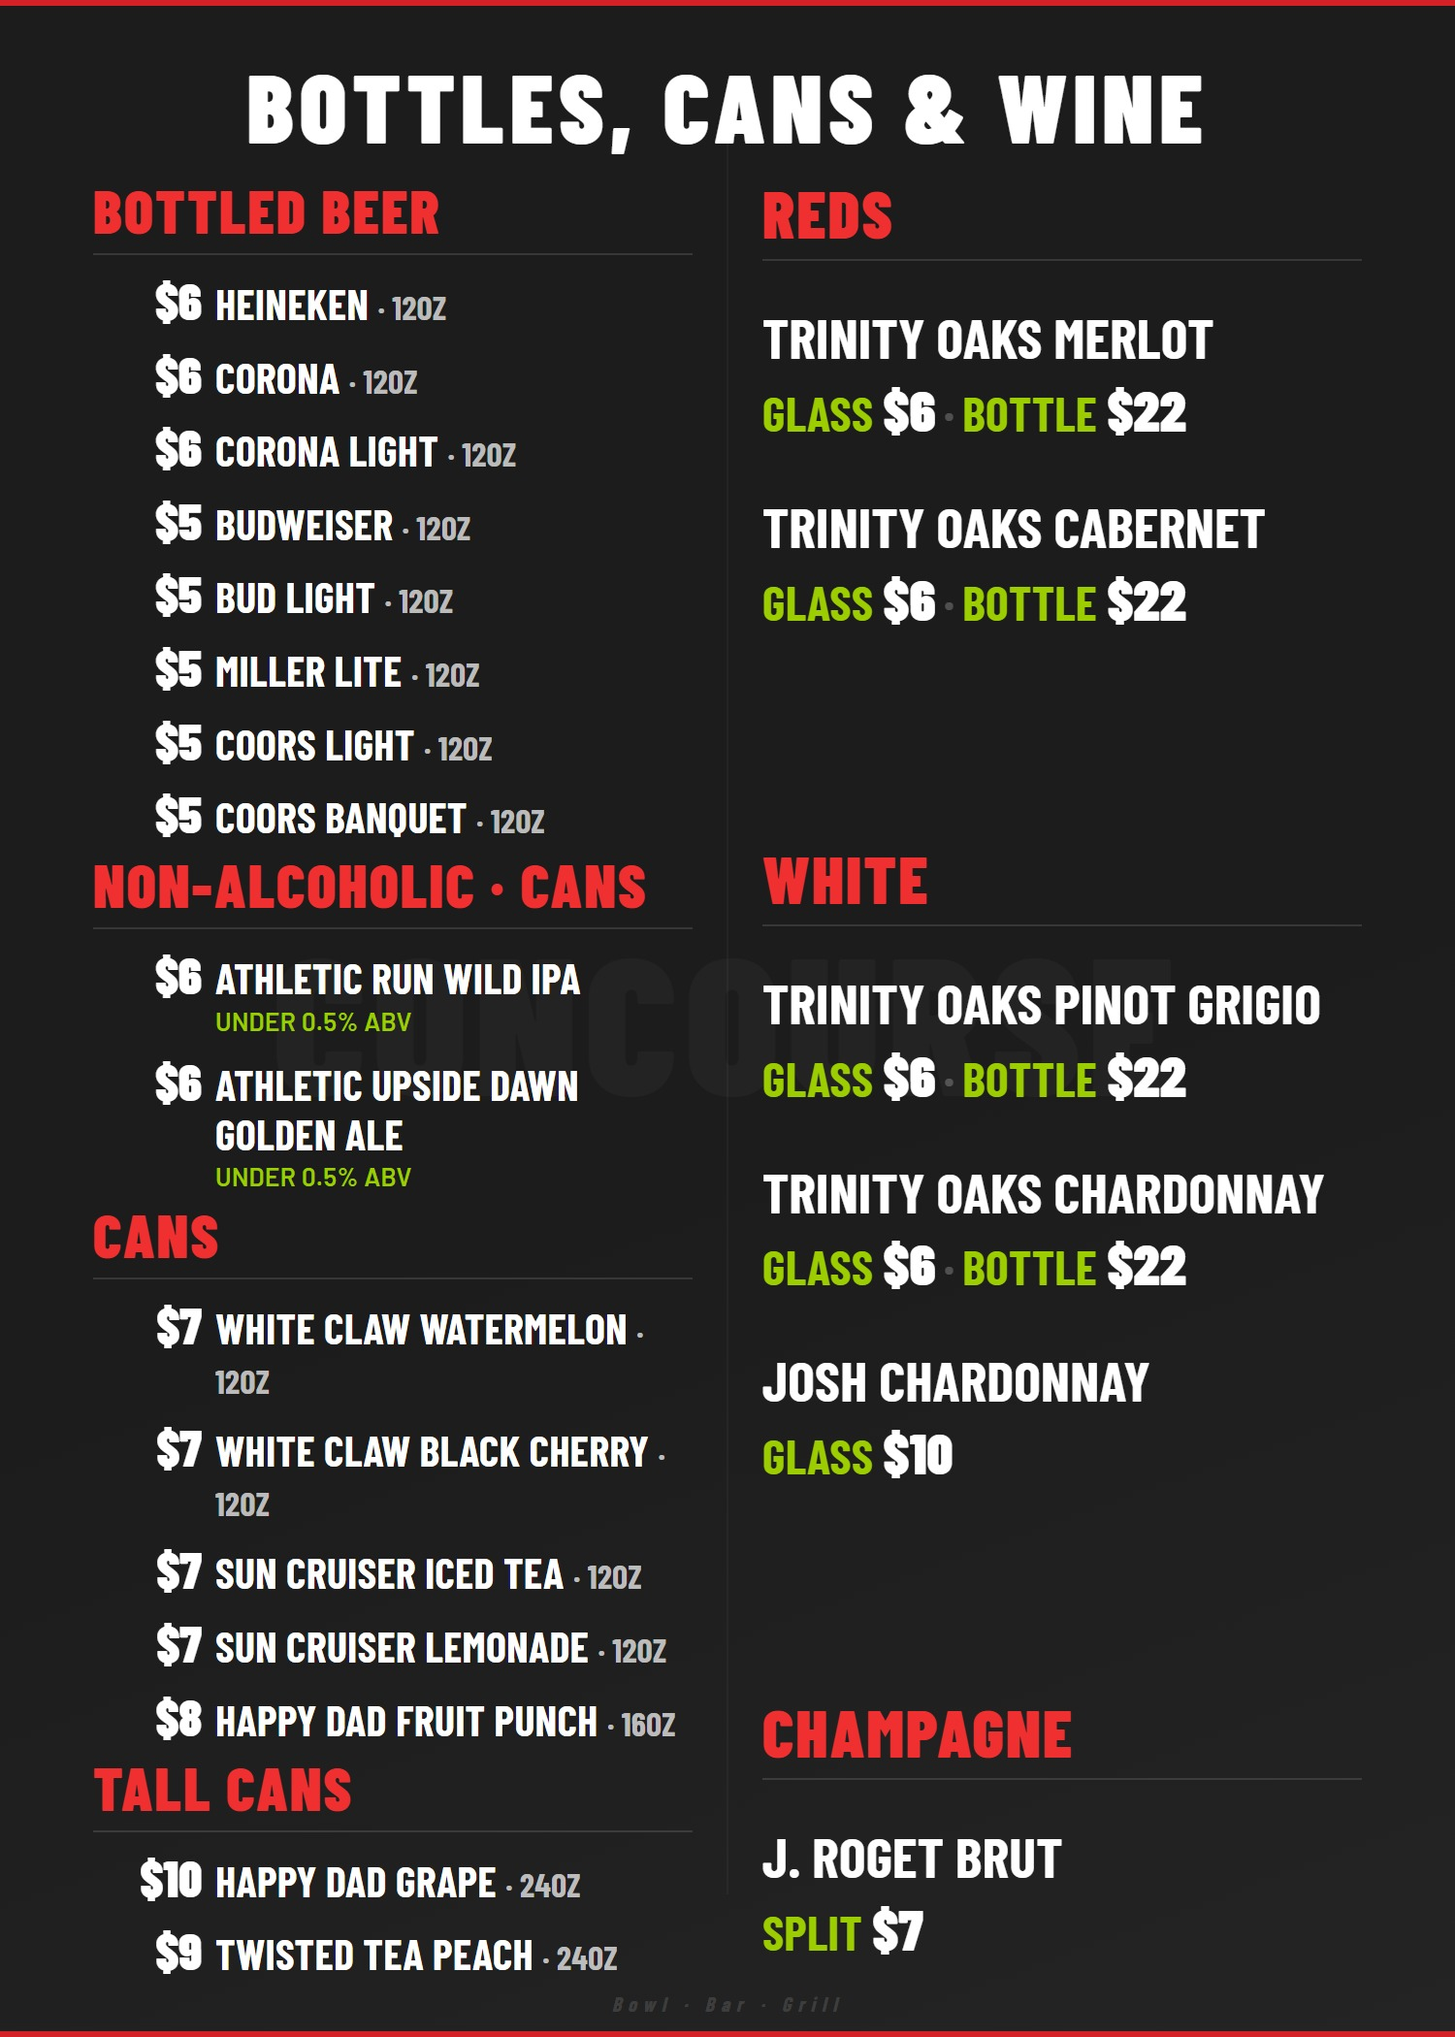
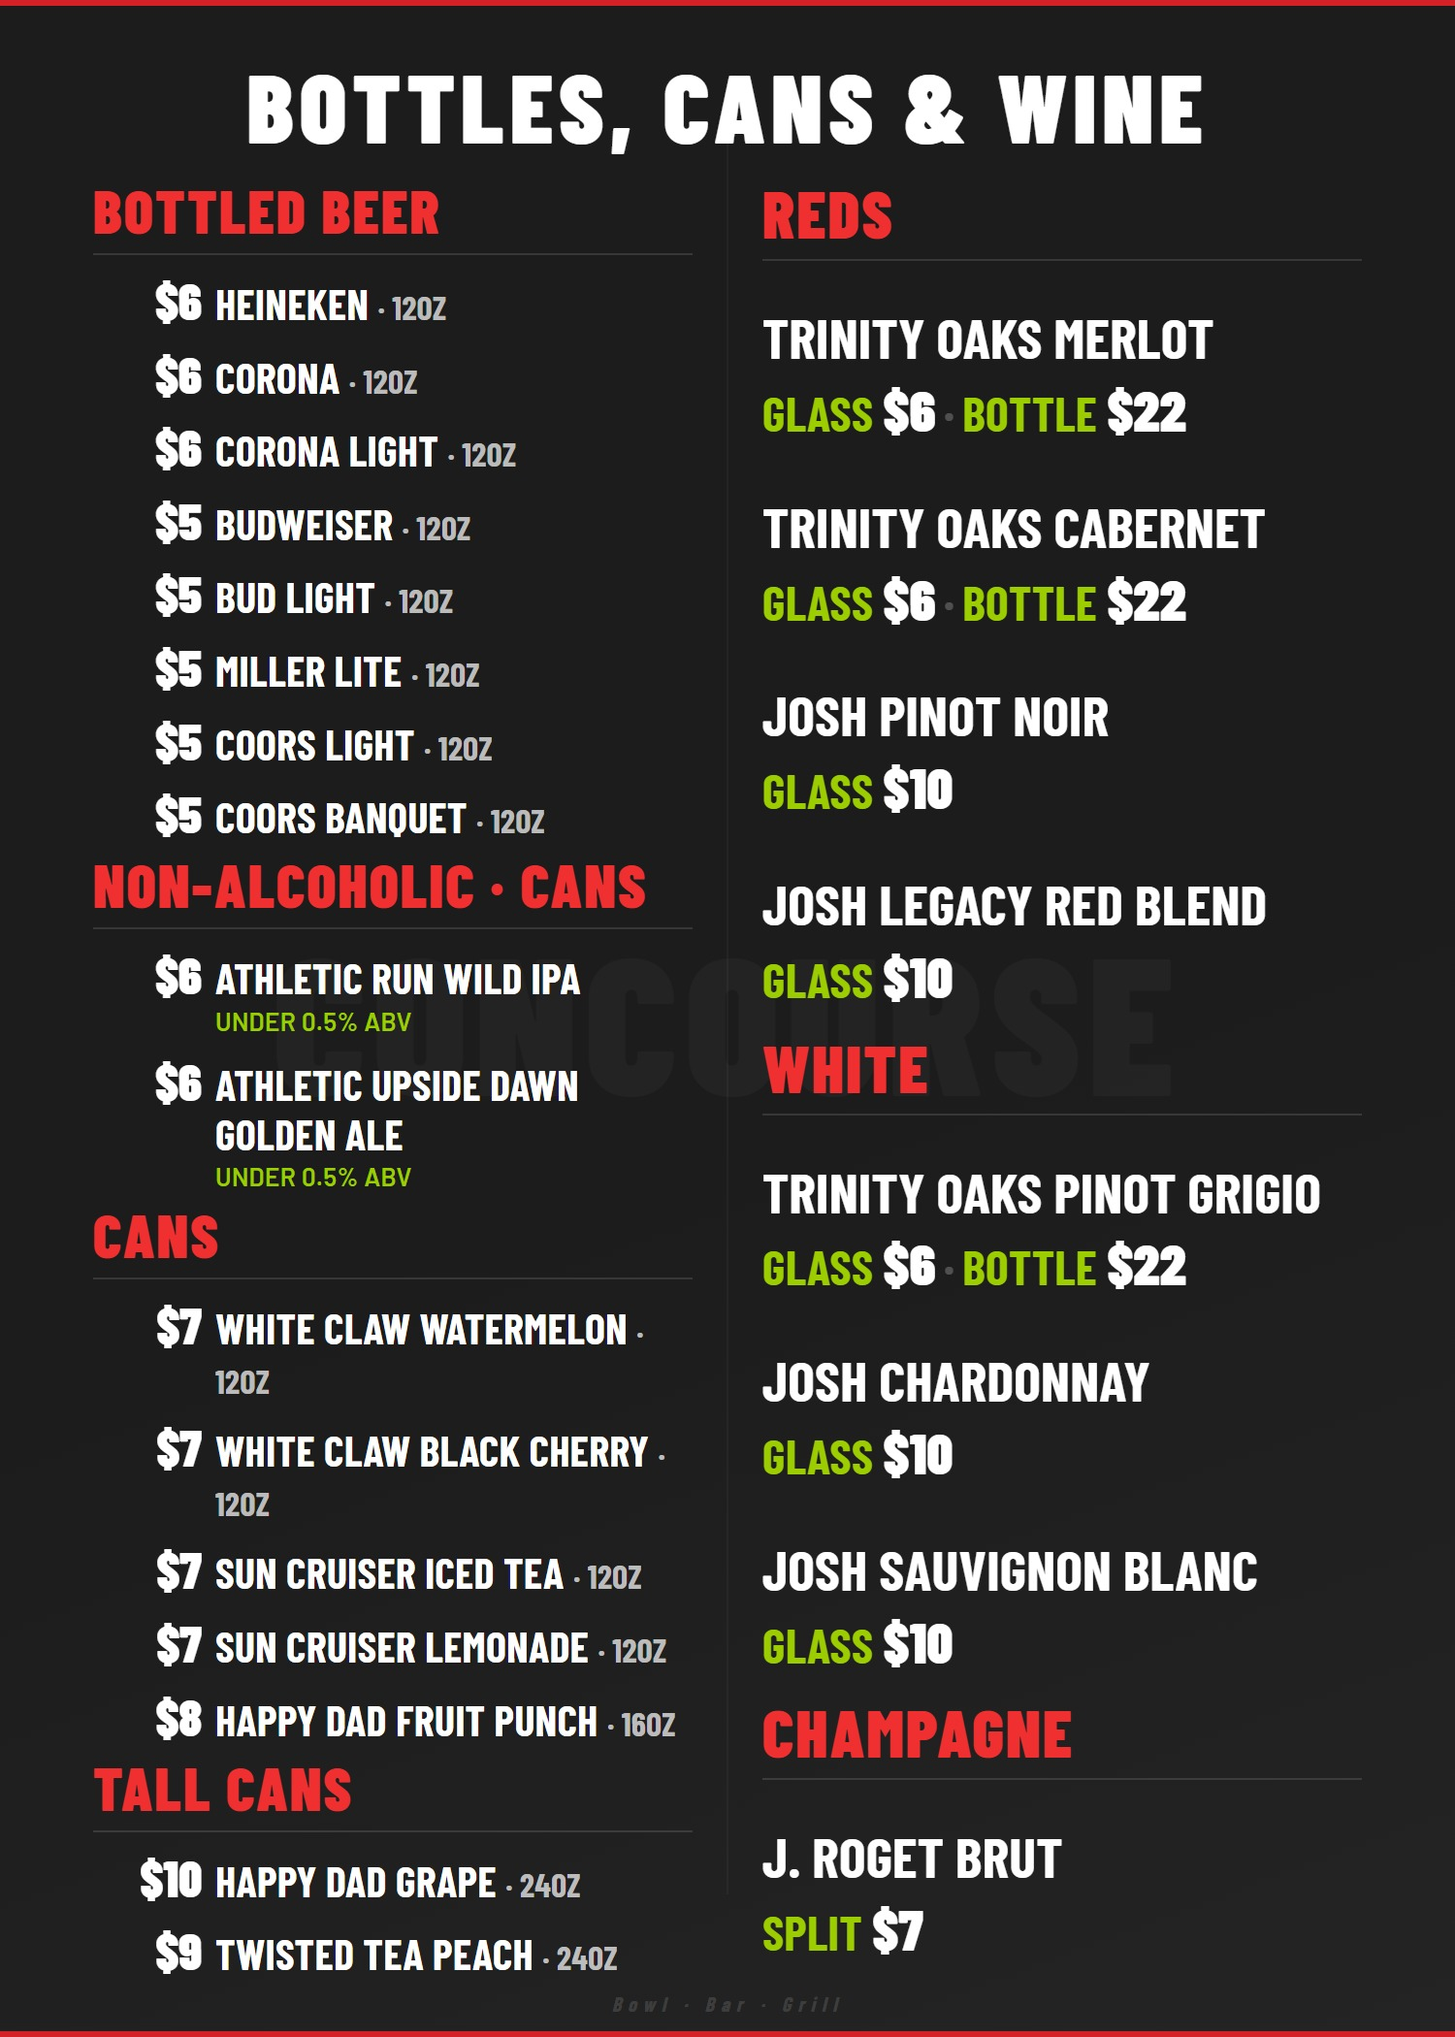
Update food menu: new items, price bumps, badge refresh; wine and draft updates
Front menu: replace Turkey Avocado with Club Sandwich, replace Fried Chicken Salad with Miso Shrimp Salad, price bumps on House/Caesar/Cobb salads, refresh NEW/SPICY badges.

Back menu: price bumps on fries, nachos, shrimp tacos; add Chicken Lettuce Cups and revamped Sliders; rename Hummus Trio to Hummus and Pita; remove Chicken from BYO pizza toppings; refresh NEW badges.

Wine menus: add Josh Pinot Noir, Josh Legacy Red Blend, Josh Sauvignon Blanc; replace Trinity Oaks Chardonnay with Josh Chardonnay. Draft beer: swap Sam Adams Cold Snap for Dos Equis Amber.

Add specials_page/ to .gitignore.

Changed region(s): [[0.5213, 0.3405, 0.92, 0.619], [0.5213, 0.7429, 0.8587, 0.8357]]

diff --git a/public/back-tv.html b/public/back-tv.html
@@ -284,7 +284,7 @@
               <span class="item-name">French Fries</span>
               <span class="badge badge-gf">GF</span>
               <span class="badge badge-vegan">VG</span>
-              <span class="item-price">$6.50</span>
+              <span class="item-price">$7</span>
             </div>
           </div>
 
@@ -293,7 +293,7 @@
               <span class="item-name">Waffle Fries</span>
               <span class="badge badge-gf">GF</span>
               <span class="badge badge-vegan">VG</span>
-              <span class="item-price">$8.50</span>
+              <span class="item-price">$9</span>
             </div>
           </div>
 
@@ -307,9 +307,8 @@
           <div class="item">
             <div class="item-row">
               <span class="item-name">Irish Nachos</span>
-              <span class="badge badge-new">NEW</span>
               <span class="badge badge-gf">GF</span>
-              <span class="item-price">$19</span>
+              <span class="item-price">$20</span>
             </div>
             <!-- <div class="item-desc">Waffle cut fries, hot cheese sauce, topped with shredded cheddar, crispy bacon and green onions.</div> -->
           </div>
@@ -317,7 +316,6 @@
           <div class="item">
             <div class="item-row">
               <span class="item-name">Concourse Nacho</span>
-              <span class="badge badge-new">NEW</span>
               <span class="badge badge-gf">GF</span>
               <span class="badge badge-spicy">SPICY</span>
               <span class="item-price">$17.50</span>
@@ -329,9 +327,10 @@
           <div class="item">
             <div class="item-row">
               <span class="item-name">Sliders</span>
+              <span class="badge badge-new">NEW</span>
               <span class="item-price">$14.50</span>
             </div>
-            <!-- <div class="item-desc">Three two-ounce beef patties on sweet hawaiian slider buns with melted cheese, grilled onions &amp; ketchup.</div> -->
+            <!-- <div class="item-desc">Three sliders on sweet Hawaiian buns. Choose from classic cheeseburger, jerk chicken with pickled onions, or pulled pork with BBQ sauce &amp; onion strings. One style per order.</div> -->
             <!-- <div class="item-sub">Add fries $2.50</div> -->
           </div>
 
@@ -346,7 +345,6 @@
           <div class="item">
             <div class="item-row">
               <span class="item-name">Chicken Wings</span>
-              <span class="badge badge-new">NEW</span>
               <span class="badge badge-gf">GF</span>
               <span class="badge badge-spicy">SPICY</span>
               <span class="item-price">$16</span>
@@ -385,11 +383,11 @@
 
           <div class="item">
             <div class="item-row">
-              <span class="item-name">Hummus Trio</span>
+              <span class="item-name">Hummus &amp; Pita</span>
               <span class="badge badge-vegan">VG</span>
               <span class="item-price">$12</span>
             </div>
-            <!-- <div class="item-desc">Three fresh Mediterranean style dips: plain, edamame &amp; red pepper. Served with pita &amp; veggies.</div> -->
+            <!-- <div class="item-desc">Creamy chickpea hummus topped with a marinated tomato olive relish. Served with warm pita bread and fresh vegetables.</div> -->
           </div>
 
           <div class="item">
@@ -404,7 +402,7 @@
             <div class="item-row">
               <span class="item-name">Shrimp Tacos (3)</span>
               <span class="badge badge-spicy">SPICY</span>
-              <span class="item-price">$14.50</span>
+              <span class="item-price">$15</span>
             </div>
             <!-- <div class="item-desc">Flour shell shrimp tacos filled with melted mozzarella, lettuce, pico de gallo and chipotle aioli. Served with black beans puree and tortilla chips.</div> -->
           </div>
@@ -412,7 +410,6 @@
           <div class="item">
             <div class="item-row">
               <span class="item-name">Taco Plate</span>
-              <span class="badge badge-new">NEW</span>
               <span class="item-price">$12</span>
             </div>
             <!-- <div class="item-desc">Three soft corn tortillas with your choice of chicken, pork carnitas or beef carne asada. Topped with red onion &amp; cilantro. Includes tortilla chips, black beans and fire roasted salsa.</div> -->
@@ -434,6 +431,16 @@
             </div>
             <!-- <div class="item-desc">Long grain rice with black bean-corn and tomatillo salsas, cheddar, chipotle aioli, avocado and fajita vegetables. Topped with crispy tortilla strips.</div> -->
             <!-- <div class="item-sub">Add Chicken $4 · Steak or Shrimp $5</div> -->
+          </div>
+
+          <div class="item">
+            <div class="item-row">
+              <span class="item-name">Chicken Lettuce Cups</span>
+              <span class="badge badge-new">NEW</span>
+              <span class="badge badge-spicy">SPICY</span>
+              <span class="item-price">$13</span>
+            </div>
+            <!-- <div class="item-desc">Seasoned ground chicken with onions, peppers &amp; rice noodles in crisp lettuce leaves. Served with chili dipping sauce and chili roasted peanuts.</div> -->
           </div>
         </div>
 
@@ -522,7 +529,7 @@
 
             <div class="byo-category">
               <div class="byo-category-title">Meat Tops <span class="byo-each">$2.50/each</span></div>
-              <div class="byo-list">Pepperoni, Italian Sausage, Ham, Applewood Smoked Bacon, Chicken</div>
+              <div class="byo-list">Pepperoni, Italian Sausage, Ham, Applewood Smoked Bacon</div>
             </div>
           </div>
         </div>

diff --git a/public/wines.html b/public/wines.html
@@ -53,7 +53,7 @@
     flex-direction: column;
     align-items: center;
     justify-content: center;
-    padding: 56px 80px 72px;
+    padding: 36px 80px 48px;
     font-family: 'Barlow Condensed', sans-serif;
     color: #fff;
   }
@@ -79,11 +79,11 @@
     position: relative;
     z-index: 1;
     width: 100%;
-    max-width: 1680px;
+    max-width: 1760px;
     display: flex;
     flex-direction: column;
     align-items: center;
-    gap: 52px;
+    gap: 28px;
   }
 
   .wine-section {
@@ -91,11 +91,11 @@
     display: flex;
     flex-direction: column;
     align-items: center;
-    gap: 26px;
+    gap: 16px;
   }
 
   .section-title {
-    font-size: 100px;
+    font-size: 82px;
     font-weight: 900;
     text-transform: uppercase;
     letter-spacing: 4px;
@@ -108,7 +108,7 @@
     display: flex;
     flex-direction: column;
     align-items: center;
-    gap: 36px;
+    gap: 18px;
     width: 100%;
   }
 
@@ -118,7 +118,7 @@
     flex-wrap: wrap;
     justify-content: center;
     align-items: baseline;
-    gap: 48px 60px;
+    gap: 28px 56px;
     max-width: 100%;
   }
 
@@ -145,7 +145,7 @@
   }
 
   .wine-name {
-    font-size: 68px;
+    font-size: 74px;
     font-weight: 700;
     text-transform: uppercase;
     letter-spacing: 0.5px;
@@ -153,7 +153,7 @@
   }
 
   .wine-meta {
-    font-size: 36px;
+    font-size: 40px;
     font-weight: 700;
     text-transform: uppercase;
     color: var(--green);
@@ -167,7 +167,7 @@
   }
 
   .wine-glass-price {
-    font-size: 60px;
+    font-size: 66px;
     font-weight: 900;
     color: #fff;
     line-height: 1;
@@ -203,16 +203,30 @@
 
       <section class="wine-section" aria-label="Red wines">
         <h2 class="section-title">Reds</h2>
-        <div class="wine-row">
-          <div class="wine-item">
-            <span class="wine-name">Trinity Oaks Merlot</span>
-            <span class="wine-meta">Glass </span>
-            <span class="wine-glass-price">$6</span>
+        <div class="wine-rows">
+          <div class="wine-row">
+            <div class="wine-item">
+              <span class="wine-name">Trinity Oaks Merlot</span>
+              <span class="wine-meta">Glass </span>
+              <span class="wine-glass-price">$6</span>
+            </div>
+            <div class="wine-item">
+              <span class="wine-name">Trinity Oaks Cabernet</span>
+              <span class="wine-meta">Glass </span>
+              <span class="wine-glass-price">$6</span>
+            </div>
           </div>
-          <div class="wine-item">
-            <span class="wine-name">Trinity Oaks Cabernet</span>
-            <span class="wine-meta">Glass </span>
-            <span class="wine-glass-price">$6</span>
+          <div class="wine-row">
+            <div class="wine-item">
+              <span class="wine-name">Josh Pinot Noir</span>
+              <span class="wine-meta">Glass </span>
+              <span class="wine-glass-price">$10</span>
+            </div>
+            <div class="wine-item">
+              <span class="wine-name">Josh Legacy Red Blend</span>
+              <span class="wine-meta">Glass </span>
+              <span class="wine-glass-price">$10</span>
+            </div>
           </div>
         </div>
       </section>
@@ -231,14 +245,14 @@
           </div>
           <div class="wine-row wine-row--single">
             <div class="wine-item">
-              <span class="wine-name">Trinity Oaks Chardonnay</span>
+              <span class="wine-name">Josh Chardonnay</span>
               <span class="wine-meta">Glass </span>
-              <span class="wine-glass-price">$6</span>
+              <span class="wine-glass-price">$10</span>
             </div>
           </div>
           <div class="wine-row wine-row--single">
             <div class="wine-item">
-              <span class="wine-name">Josh Chardonnay</span>
+              <span class="wine-name">Josh Sauvignon Blanc</span>
               <span class="wine-meta">Glass </span>
               <span class="wine-glass-price">$10</span>
             </div>

diff --git a/public/front-tv.html b/public/front-tv.html
@@ -237,7 +237,7 @@
           <span class="item-name">House Salad</span>
           <span class="badge badge-gf">GF</span>
           <span class="badge badge-vegan">VG</span>
-          <span class="item-price">$8</span>
+          <span class="item-price">$9</span>
         </div>
         <!-- <div class="item-desc">Romaine lettuce, tomato, cucumber, mozzarella &amp; carrots.</div> -->
         <!-- <div class="item-note">Ask for no cheese for vegan option</div> -->
@@ -246,7 +246,8 @@
       <div class="item">
         <div class="item-row">
           <span class="item-name">Caesar Salad</span>
-          <span class="item-price">$8.50</span>
+          <span class="badge badge-gf">GF</span>
+          <span class="item-price">$9.50</span>
         </div>
         <!-- <div class="item-desc">Romaine lettuce, parmesan cheese, croutons tossed in Caesar dressing.</div> -->
         <!-- <div class="item-note">Ask for no croutons for gluten-free option</div> -->
@@ -272,18 +273,19 @@
         <div class="item-row">
           <span class="item-name">Cobb Salad</span>
           <span class="badge badge-gf">GF</span>
-          <span class="item-price">$15</span>
+          <span class="item-price">$15.50</span>
         </div>
         <!-- <div class="item-desc">Grilled chicken, romaine lettuce, bacon, hardboiled egg, avocado, blue cheese crumbles &amp; tomato.</div> -->
       </div>
 
       <div class="item">
         <div class="item-row">
-          <span class="item-name">Fried Chicken Salad</span>
+          <span class="item-name">Miso Shrimp Salad</span>
           <span class="badge badge-new">NEW</span>
+          <span class="badge badge-gf">GF</span>
           <span class="item-price">$15</span>
         </div>
-        <!-- <div class="item-desc">Chunks of crispy fried chicken tenders atop mixed greens with grape tomatoes, kernel corn &amp; shredded cheddar. Served with honey mustard.</div> -->
+        <!-- <div class="item-desc">Grilled shrimp over chopped kale and romaine, dried cranberries, sliced almonds, tossed in miso dressing.</div> -->
       </div>
 
       <div class="section-blurb-wrap">
@@ -305,7 +307,6 @@
       <div class="item">
         <div class="item-row">
           <span class="item-name">BBQ Chicken Sandwich</span>
-          <span class="badge badge-new">NEW</span>
           <span class="item-price">$14</span>
         </div>
         <!-- <div class="item-desc">Chicken breast brushed with BBQ sauce, piled high with ham, american cheese on onion strings on a burger bun.</div> -->
@@ -313,10 +314,11 @@
 
       <div class="item">
         <div class="item-row">
-          <span class="item-name">Turkey Avocado</span>
-          <span class="item-price">$15</span>
+          <span class="item-name">Club Sandwich</span>
+          <span class="badge badge-new">NEW</span>
+          <span class="item-price">$14</span>
         </div>
-        <!-- <div class="item-desc">Sliced turkey breast, swiss cheese, avocado, ciabatta roll, with lettuce, tomato &amp; mayo.</div> -->
+        <!-- <div class="item-desc">Sliced turkey breast, ham, avocado, lettuce &amp; tomato on toasted sourdough with mayo. Served with french fries.</div> -->
       </div>
 
       <div class="item">
@@ -347,7 +349,6 @@
       <div class="item">
         <div class="item-row">
           <span class="item-name">Soup &amp; Half Sandwich</span>
-          <span class="badge badge-new">NEW</span>
           <span class="item-price">$10</span>
         </div>
         <div class="item-sub-sm">Cup of Soup - $6</div>

diff --git a/public/bottles_wines_5x7.html b/public/bottles_wines_5x7.html
@@ -387,6 +387,14 @@
           <div class="wine-name">Trinity Oaks Cabernet</div>
           <div class="wine-line">Glass <span class="amt">$6</span><span class="sep">·</span>Bottle <span class="amt">$22</span></div>
         </div>
+        <div class="wine-block">
+          <div class="wine-name">Josh Pinot Noir</div>
+          <div class="wine-line">Glass <span class="amt">$10</span></div>
+        </div>
+        <div class="wine-block">
+          <div class="wine-name">Josh Legacy Red Blend</div>
+          <div class="wine-line">Glass <span class="amt">$10</span></div>
+        </div>
       </section>
 
       <section class="wine-section" aria-label="White wines">
@@ -396,11 +404,11 @@
           <div class="wine-line">Glass <span class="amt">$6</span><span class="sep">·</span>Bottle <span class="amt">$22</span></div>
         </div>
         <div class="wine-block">
-          <div class="wine-name">Trinity Oaks Chardonnay</div>
-          <div class="wine-line">Glass <span class="amt">$6</span><span class="sep">·</span>Bottle <span class="amt">$22</span></div>
+          <div class="wine-name">Josh Chardonnay</div>
+          <div class="wine-line">Glass <span class="amt">$10</span></div>
         </div>
         <div class="wine-block">
-          <div class="wine-name">Josh Chardonnay</div>
+          <div class="wine-name">Josh Sauvignon Blanc</div>
           <div class="wine-line">Glass <span class="amt">$10</span></div>
         </div>
       </section>

diff --git a/public/draft_2.html b/public/draft_2.html
@@ -209,6 +209,14 @@
             </div>
           </div>
 
+          <div class="beer-item">
+            <span class="price">$8</span>
+            <div class="beer-info">
+              <div class="beer-name">Dos Equis Amber <span class="abv">- 4.7%</span></div>
+              <div class="beer-desc">Vienna-Style Amber Lager</div>
+            </div>
+          </div>
+
         </div>
       </div>
 
@@ -231,14 +239,6 @@
             <div class="beer-info">
               <div class="beer-name">805 <span class="abv">- 4.7%</span></div>
               <div class="beer-desc">Subtly Sweet Blonde Ale</div>
-            </div>
-          </div>
-
-          <div class="beer-item">
-            <span class="price">$8</span>
-            <div class="beer-info">
-              <div class="beer-name">Sam Adams Cold Snap <span class="abv">- 5.3%</span></div>
-              <div class="beer-desc">White Ale with Notes of Citrus &amp; Spice</div>
             </div>
           </div>
 
